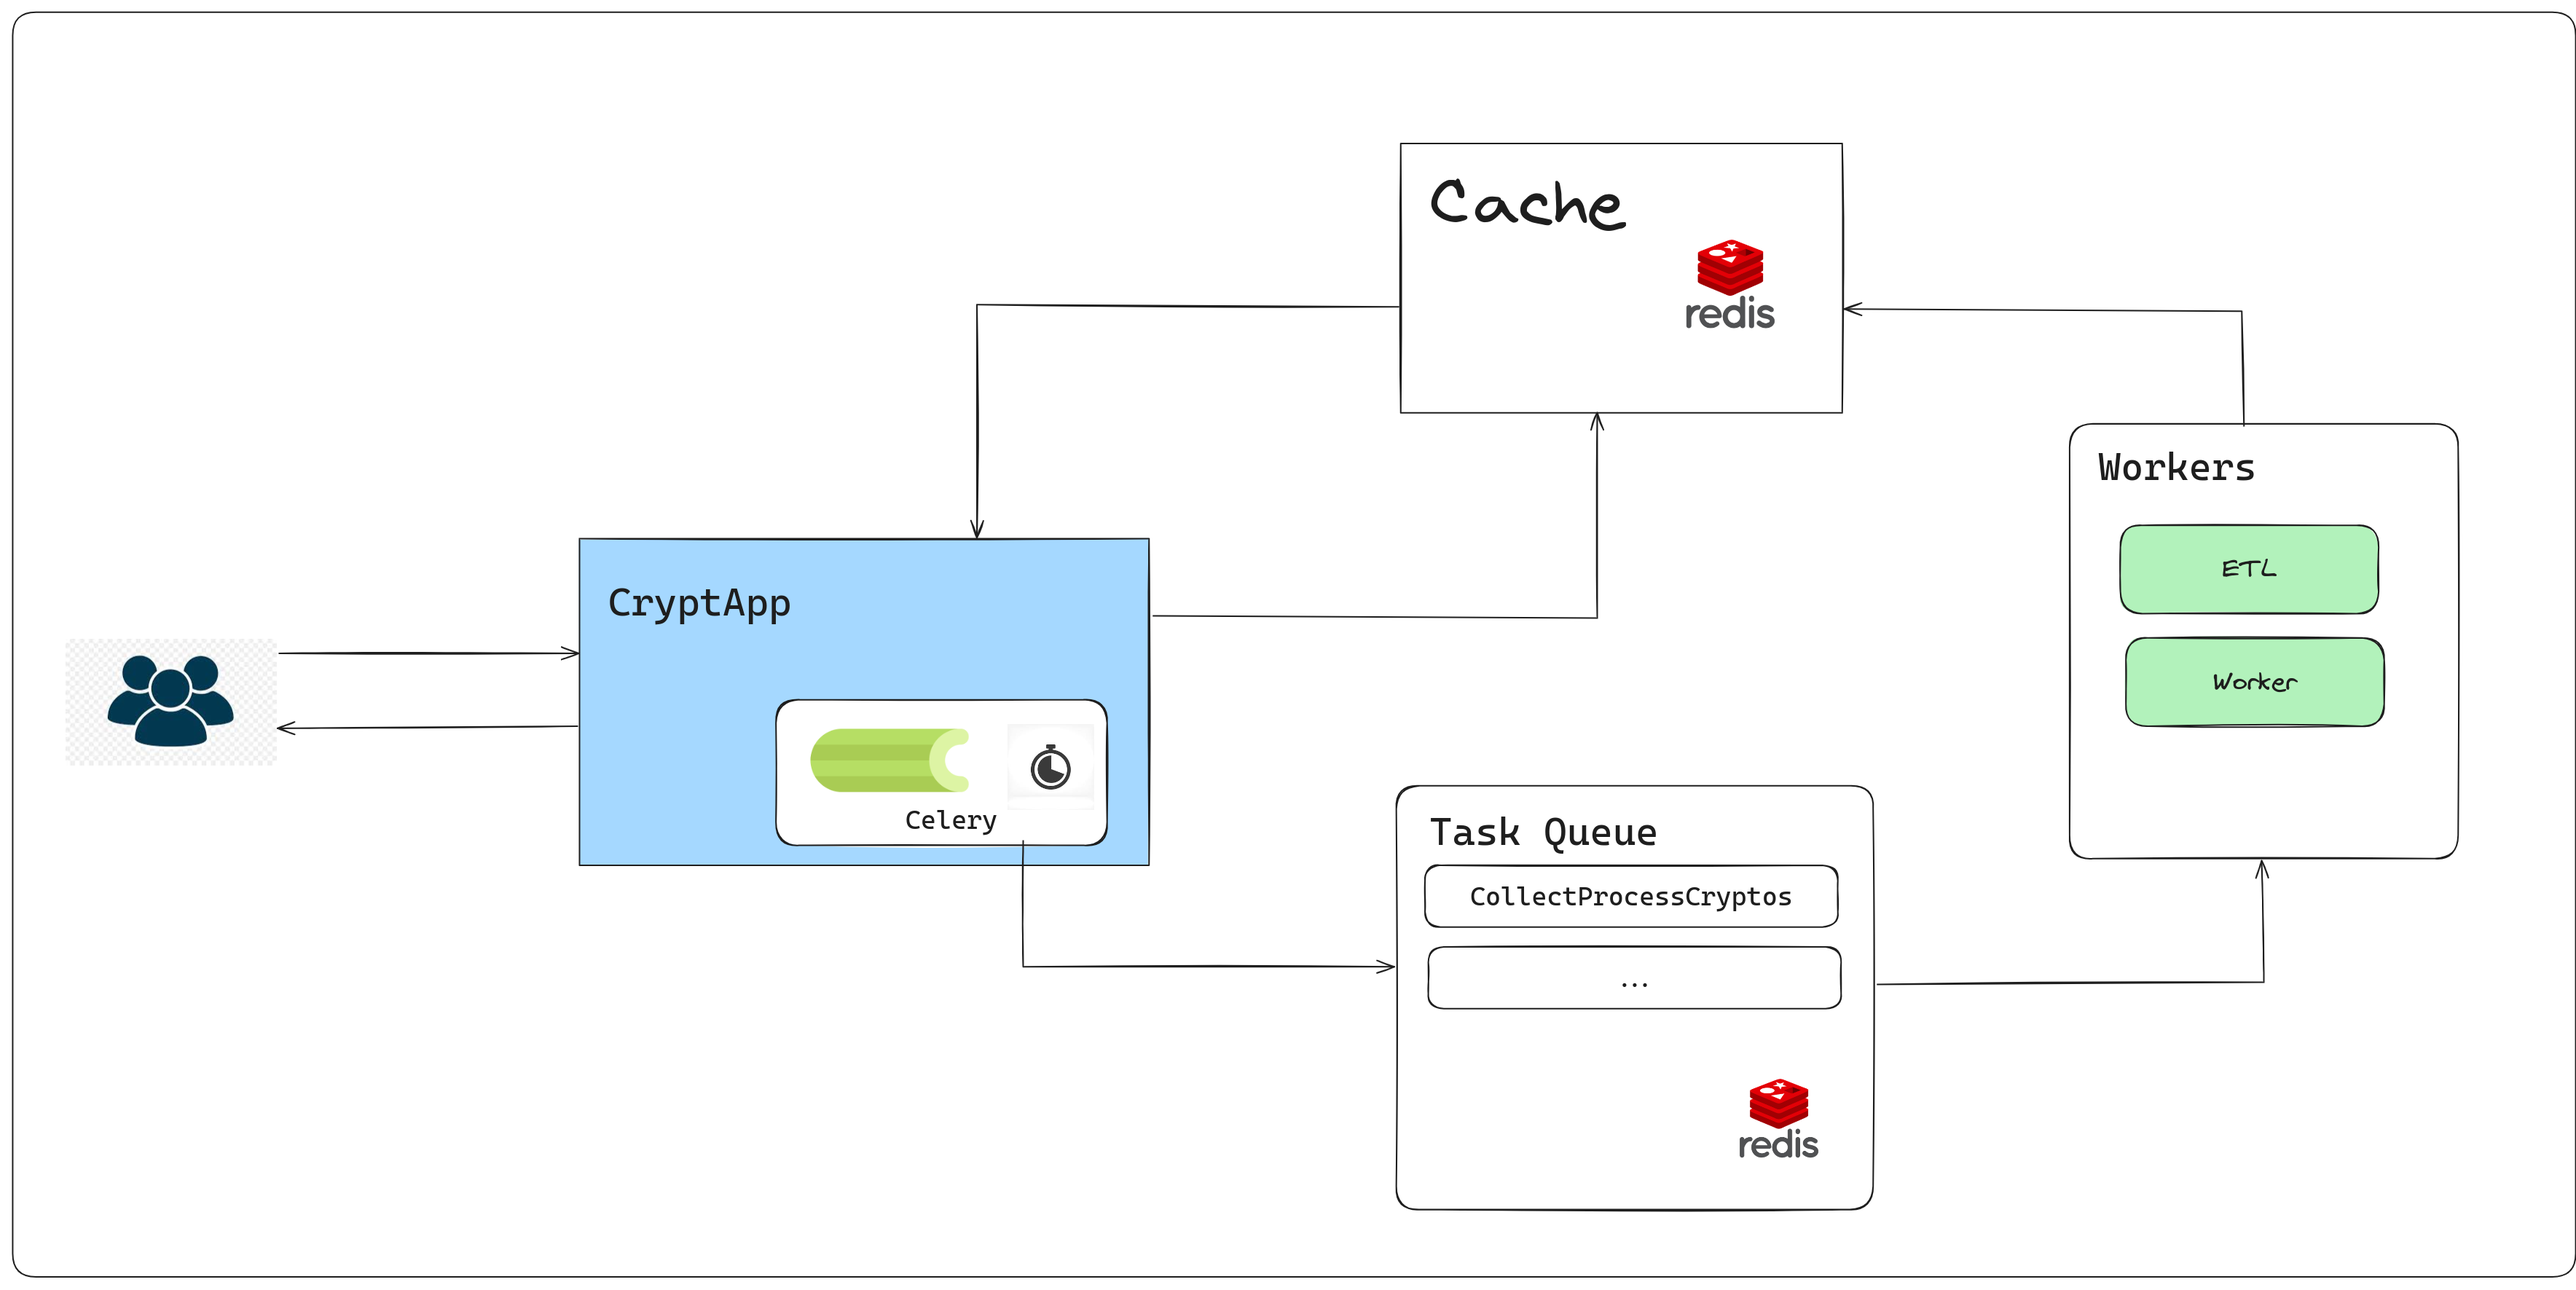
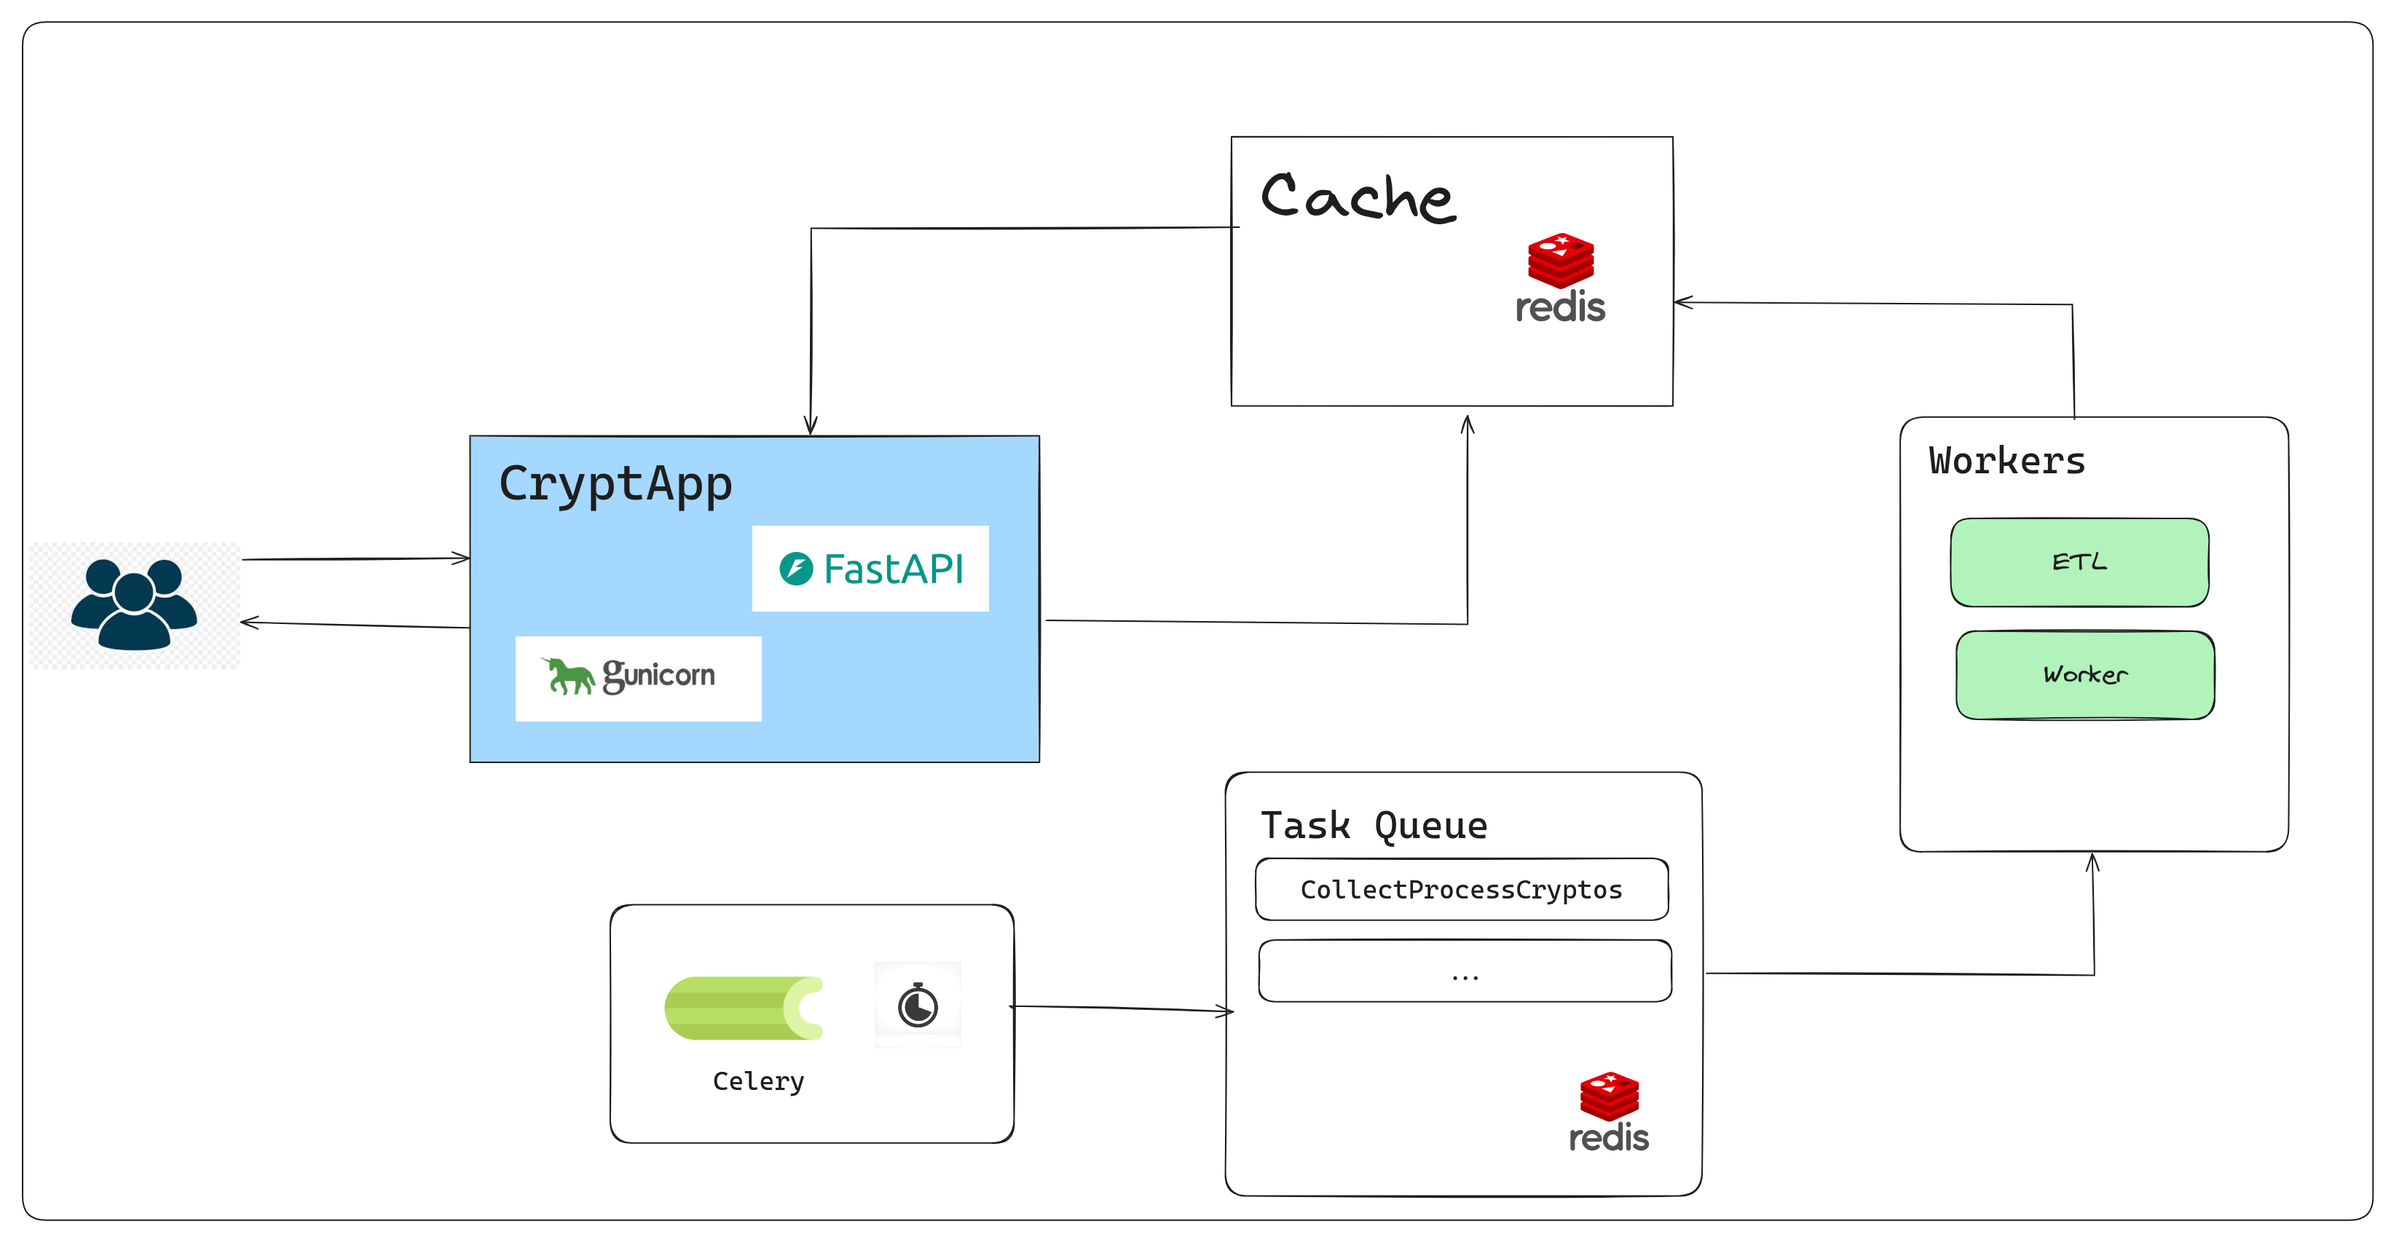
doc: api

diff --git a/docs/components.md b/docs/components.md
@@ -1,0 +1,70 @@
+# Components
+
+![Alt text](./images/components.png)
+
+
+This document explains the architecture of the CryptApp system, which is designed to handle the collection and processing of cryptocurrency data. The application uses modern technologies such as **FastAPI**, **Redis**, **Celery**, and **Gunicorn** to offer a scalable and efficient service. Below is a detailed explanation of each component in the diagram.
+
+
+### 1. **Users**
+
+Users interact with the CryptApp application via HTTP requests. These users can be end clients or other systems/services that consume the API to retrieve cryptocurrency data.
+
+### 2. **CryptApp (FastAPI and Gunicorn)**
+
+- **FastAPI**: A Python web framework used to build the API for CryptApp. FastAPI is known for its high performance and ease of use, allowing developers to quickly create RESTful APIs.
+
+- **Gunicorn**: A WSGI (Web Server Gateway Interface) server that serves the FastAPI application. Gunicorn handles concurrency, allowing CryptApp to manage multiple requests simultaneously, thereby improving the system's performance and responsiveness.
+
+### 3. **Cache (Redis)**
+
+Redis acts as the caching system in the CryptApp architecture. Its primary purpose is to enhance the application's response time by storing temporary data that can be accessed quickly. Common use cases include:
+
+- Temporary storage of frequently accessed cryptocurrency data.
+- Caching API responses to reduce server load and decrease user wait times.
+
+### 4. **Task Queue (Celery and Redis)**
+
+The application utilizes **Celery** for managing asynchronous background tasks, allowing CryptApp to handle long-running and complex processes without blocking the main execution of the API. Redis is also used here as a message broker, managing the task queue.
+
+- **Celery**: A distributed task queue system that enables asynchronous execution of tasks. In this context, Celery schedules and dispatches tasks to workers for processing.
+
+- **Redis**: Besides its role as a cache, Redis acts as the broker for Celery, storing and managing tasks that need to be processed by workers.
+
+#### Example of Tasks
+
+- `CollectProcessCryptos`: A scheduled task that might be responsible for collecting cryptocurrency data from external sources, processing it, and storing it for future use.
+
+### 5. **Workers**
+
+Workers are components of the system that execute background tasks. In this architecture, workers can perform different types of processing:
+
+- **ETL (Extract, Transform, Load)**: This process involves extracting data from various sources, transforming it into a usable format, and loading it into a database or file system.
+
+- **Worker**: Generic workers that handle various tasks assigned by Celery. These workers consume tasks from the queue and process them according to the system's requirements.
+
+## Data Flow
+
+1. **User Interaction**: 
+   - Users send requests to the CryptApp API via HTTP.
+   - The requests are handled by Gunicorn, which routes them to the FastAPI application.
+
+2. **CryptApp Processing**:
+   - The FastAPI application processes user requests, interacting with Redis for caching purposes to improve performance.
+   - If a request requires data processing or retrieval from external sources, CryptApp may trigger a task in Celery.
+
+3. **Task Queue**:
+   - Celery manages tasks that need to be processed in the background. These tasks are queued in Redis, which acts as a broker.
+   - Tasks like `CollectProcessCryptos` are sent to workers for execution.
+
+4. **Workers**:
+   - Workers pick up tasks from the Redis queue and execute them asynchronously.
+   - Tasks can include data extraction, transformation, or any other background processing required by the application.
+
+5. **Cache and Response**:
+   - Processed data can be cached in Redis for quick access in future requests.
+   - FastAPI sends the response back to the user, completing the request cycle.
+
+## Conclusion
+
+This architecture provides a robust and efficient way to handle high-volume data processing and API interactions, leveraging FastAPI for performance, Redis for caching and task queuing, and Celery for asynchronous task management. This setup allows CryptApp to scale effectively and handle complex tasks without affecting the user experience.

diff --git a/README.md b/README.md
@@ -4,19 +4,21 @@
 
 ## Index
 1. [Introduction](#introduction)
-2. [Arquitecture](#arquitecture)
+2. [Components](#components)
+3. [Arquitecture](#arquitecture)
 4. [Api Docs](#api-docs)
 5. [Prerequisites](#prerequisites)
 6. [Dependencies](#dependencies)
 7. [Installing Docker](#installing-docker)
 8. [How run the Project](#how-run-the-project)
-9. [How run the project with docker?](#how-run-the-project-with-docker)
-10. [For Local Development](#for-local-development)
-11. [Run Tests](#run-tests)
+9. [Run Tests](#run-tests)
 
 
 ## Introduction
 This document will walk you through the process of setting up the project, including installing Docker, running basic Docker commands, and understanding the dependencies required. 
+
+## Components
+Go to this page [Components](./docs/components.md)
 
 
 ## Api Docs
@@ -56,81 +58,16 @@ Prerequisites:
 2. python3.10 installed and configurated. 
 3. Write access in the root folder of the project.
 
-> **Note:**
-> The below commands are for linux OS. Change these according your OS. If you have trouble with this, please check this topic. [How run the project with docker?](#how-run-the-project-with-docker). 
-
-Follow this steps:
-1. Create a virtual environment, you can use tools like [virtualenv](https://virtualenv.pypa.io/en/latest/), [pipenv](https://pipenv.pypa.io/en/latest/), [venv](https://docs.python.org/3/library/venv.html), etc. 
-2. Activate your environment 
+Execute the following command
 ```bash
-source env/bin/activate
+sh deploy.sh
 ```
+this command run the four main services on docker. (redis, api, celery workers, celery_beat). to check if the services are running successfully run the command `docker ps`. 
 
-3. Install Dependencies
-```bash
-pip install -r requirements.txt
-```
-
-4. Go to app folder
-```bash
-cd app
-```
-5. Run the migrations.
-```bash
-python manage.py migrate
-```
-6. Define the following envaironment variables in the `.env` file.
-```conf
-REDIS_CHANNEL_HOST=localhost
-REDIS_CHANNEL_PORT=6379
-```
-
-7. Define Allowed hosts
-```conf
-ALLOWED_HOSTS=localhost,127.0.0.1,your-custo-host
-```
-
-8. Run the server
-```bash
-python manage.py runserver 8080
-```
-
-9. Make an healthcheck request to the API to check if is running. 
-```bash
-curl --location 'localhost:8080/api/v1/health'
-```
-
-## How run the project with docker
-
-Run this command in your terminal. 
-```bash
-docker compose -f ./deployments/docker-compose.yml up 
-```
-
-
-## For Local Development 
-1.Execute this command in your terminal
-```bash
-pip install -r requirements/dev.txt
-```
-2. Install pre-commits
-```bash
-pre-commit install
-```
-3. Debug the app. 
-```bash
-# .env
-DEBUG=True
-```
 
 ## Run Tests
-1. Go to the app 
-folder
-```bash
-cd app
-```
 
-2. Execute this command in your terminal
+ Execute this command in your terminal
 ```bash
-python -m pytest -vv . 
+sh run_tests.sh 
 ```
